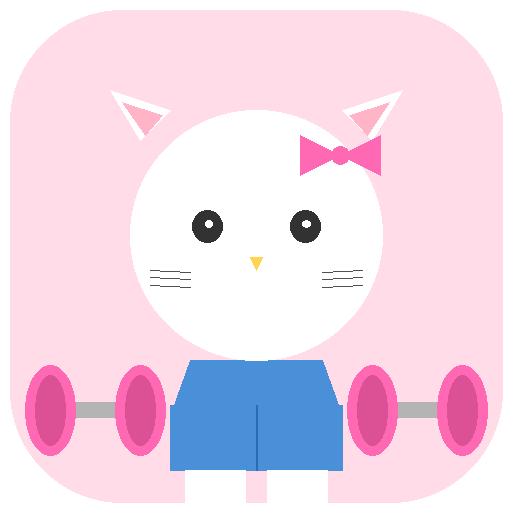
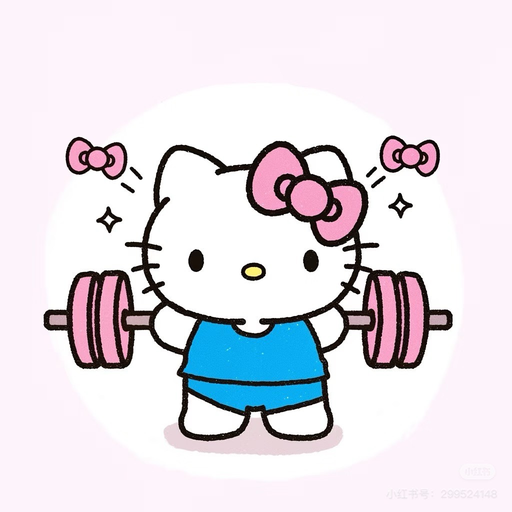
v1.5.1 用原图重新生成所有图标（之前的画坏了）

diff --git a/gen_icons.py b/gen_icons.py
@@ -1,138 +1,68 @@
 """
-生成 Hello Kitty 健身图标 + 多尺寸 PWA 图标
+用原始 Hello Kitty 图片生成所有 PWA 图标尺寸
 """
-from PIL import Image, ImageDraw, ImageFilter
+from PIL import Image
 import os
 
 OUT = '/workspace/couple-diet/icons'
-os.makedirs(OUT, exist_ok=True)
+SRC = os.path.join(OUT, 'hellokitty-original.jpg')
 
-def make_hellokitty(size=1024, transparent_bg=True):
-    """生成 Hello Kitty 健身图标（程序化绘制）"""
-    img = Image.new('RGBA', (size, size), (0,0,0,0) if transparent_bg else (255, 240, 246, 255))
-    d = ImageDraw.Draw(img)
+# 打开原图
+src = Image.open(SRC).convert('RGBA')
+print(f"原图尺寸: {src.size}")
 
-    # 粉色圆形背景（圆角）
-    pad = int(size * 0.02)
-    r = int(size * 0.22)  # 圆角半径
-    bg_color = (255, 220, 232, 255)  # 浅粉
-    # 用圆角矩形作为背景
-    bg = Image.new('RGBA', (size, size), (0,0,0,0))
-    bgd = ImageDraw.Draw(bg)
-    bgd.rounded_rectangle([pad, pad, size-pad, size-pad], radius=r, fill=bg_color)
-    img = Image.alpha_composite(img, bg) if transparent_bg else bg
-    d = ImageDraw.Draw(img)
-
-    s = size / 1024.0  # 缩放因子
-
-    def pt(x):
-        return int(x * s)
-
-    # ===== 身体（蓝色背心+短裤）=====
-    # 蓝色背心
-    d.polygon([
-        (pt(380), pt(720)),   # 左肩下
-        (pt(644), pt(720)),   # 右肩下
-        (pt(680), pt(820)),   # 右腋下
-        (pt(344), pt(820)),   # 左腋下
-    ], fill=(74, 144, 217, 255))
-
-    # 短裤
-    d.rectangle([pt(340), pt(810), pt(684), pt(940)], fill=(74, 144, 217, 255))
-
-    # 短裤中线
-    d.line([(pt(512), pt(810)), (pt(512), pt(940))], fill=(40, 110, 180, 255), width=pt(4))
-
-    # 腿（白色）
-    d.rectangle([pt(370), pt(940), pt(490), pt(1010)], fill=(255, 255, 255, 255))
-    d.rectangle([pt(534), pt(940), pt(654), pt(1010)], fill=(255, 255, 255, 255))
-
-    # ===== 头部（白色猫脸）=====
-    # 脸部轮廓 - 大圆
-    d.ellipse([pt(260), pt(220), pt(764), pt(720)], fill=(255, 255, 255, 255))
-
-    # 左耳
-    d.polygon([(pt(280), pt(280)), (pt(220), pt(180)), (pt(340), pt(220))], fill=(255, 255, 255, 255))
-    # 右耳
-    d.polygon([(pt(744), pt(280)), (pt(804), pt(180)), (pt(684), pt(220))], fill=(255, 255, 255, 255))
-    # 左耳内侧粉
-    d.polygon([(pt(290), pt(270)), (pt(245), pt(205)), (pt(325), pt(230))], fill=(255, 180, 200, 255))
-    # 右耳内侧粉
-    d.polygon([(pt(734), pt(270)), (pt(779), pt(205)), (pt(699), pt(230))], fill=(255, 180, 200, 255))
-
-    # ===== 眼睛（黑色圆点）=====
-    d.ellipse([pt(385), pt(420), pt(445), pt(485)], fill=(50, 50, 50, 255))
-    d.ellipse([pt(580), pt(420), pt(640), pt(485)], fill=(50, 50, 50, 255))
-    # 眼睛高光
-    d.ellipse([pt(410), pt(440), pt(425), pt(455)], fill=(255, 255, 255, 255))
-    d.ellipse([pt(605), pt(440), pt(620), pt(455)], fill=(255, 255, 255, 255))
-
-    # 鼻子（黄色小三角）
-    d.polygon([(pt(500), pt(515)), (pt(525), pt(515)), (pt(512), pt(540))], fill=(255, 213, 79, 255))
-
-    # 胡须（左右各3根）
-    for y_off in [pt(540), pt(555), pt(570)]:
-        d.line([(pt(300), y_off), (pt(380), y_off+pt(5))], fill=(80, 80, 80, 255), width=pt(3))
-        d.line([(pt(724), y_off), (pt(644), y_off+pt(5))], fill=(80, 80, 80, 255), width=pt(3))
-
-    # ===== 蝴蝶结（粉色）=====
-    # 蝴蝶结中心
-    cx, cy = pt(680), pt(310)
-    # 左蝴蝶结
-    d.polygon([(cx, cy), (cx-pt(80), cy-pt(40)), (cx-pt(80), cy+pt(40))], fill=(255, 105, 180, 255))
-    # 右蝴蝶结
-    d.polygon([(cx, cy), (cx+pt(80), cy-pt(40)), (cx+pt(80), cy+pt(40))], fill=(255, 105, 180, 255))
-    # 中心结
-    d.ellipse([cx-pt(18), cy-pt(18), cx+pt(18), cy+pt(18)], fill=(255, 105, 180, 255))
-
-    # ===== 哑铃（左右各一个）=====
-    def draw_dumbbell(left_x, right_x, y):
-        # 杠
-        d.rectangle([pt(left_x), pt(y-15), pt(right_x), pt(y+15)], fill=(180, 180, 180, 255))
-        # 左大圆盘
-        d.ellipse([pt(left_x-50), pt(y-90), pt(left_x+50), pt(y+90)], fill=(255, 105, 180, 255))
-        d.ellipse([pt(left_x-30), pt(y-70), pt(left_x+30), pt(y+70)], fill=(220, 80, 150, 255))
-        # 右大圆盘
-        d.ellipse([pt(right_x-50), pt(y-90), pt(right_x+50), pt(y+90)], fill=(255, 105, 180, 255))
-        d.ellipse([pt(right_x-30), pt(y-70), pt(right_x+30), pt(y+70)], fill=(220, 80, 150, 255))
-
-    draw_dumbbell(100, 280, 820)
-    draw_dumbbell(744, 924, 820)
-
+def resize_icon(size, name=None, add_bg=True):
+    """生成指定尺寸图标，居中裁剪+缩放"""
+    if name is None:
+        name = f'icon-{size}.png'
+    # 居中正方形裁剪
+    w, h = src.size
+    side = min(w, h)
+    left = (w - side) // 2
+    top = (h - side) // 2
+    cropped = src.crop((left, top, left + side, top + side))
+    # 缩放
+    img = cropped.resize((size, size), Image.LANCZOS)
+    img.save(os.path.join(OUT, name))
     return img
 
-# 生成主图标
-master = make_hellokitty(1024)
-master.save(os.path.join(OUT, 'icon-master.png'))
-
-# 生成 PWA 各种尺寸
+# PWA 图标
 sizes = [16, 32, 48, 72, 96, 120, 144, 152, 167, 180, 192, 256, 512]
 for sz in sizes:
-    img = make_hellokitty(sz)
-    img.save(os.path.join(OUT, f'icon-{sz}.png'))
+    resize_icon(sz)
 
-# 苹果特殊尺寸
-apple_sizes = {57: 'apple-touch-icon-57', 60: 'apple-touch-icon-60', 72: 'apple-touch-icon-72',
-               76: 'apple-touch-icon-76', 114: 'apple-touch-icon-114', 120: 'apple-touch-icon-120',
-               144: 'apple-touch-icon-144', 152: 'apple-touch-icon-152', 167: 'apple-touch-icon-167',
-               180: 'apple-touch-icon-180'}
+# Apple Touch Icons
+apple_sizes = {
+    57: 'apple-touch-icon-57',
+    60: 'apple-touch-icon-60',
+    72: 'apple-touch-icon-72',
+    76: 'apple-touch-icon-76',
+    114: 'apple-touch-icon-114',
+    120: 'apple-touch-icon-120',
+    144: 'apple-touch-icon-144',
+    152: 'apple-touch-icon-152',
+    167: 'apple-touch-icon-167',
+    180: 'apple-touch-icon-180',
+}
 for sz, name in apple_sizes.items():
-    img = make_hellokitty(sz)
-    img.save(os.path.join(OUT, f'{name}.png'))
-
-# 浏览器 favicon
-fav32 = make_hellokitty(32)
-fav32.save(os.path.join(OUT, 'favicon-32.png'))
-fav16 = make_hellokitty(16)
-fav16.save(os.path.join(OUT, 'favicon-16.png'))
+    resize_icon(sz, f'{name}.png')
 
 # 主 apple touch icon
-apple = make_hellokitty(180)
-apple.save(os.path.join(OUT, 'apple-touch-icon.png'))
+resize_icon(180, 'apple-touch-icon.png')
 
-print("✅ 生成所有图标")
-print(f"📁 位置: {OUT}")
-print(f"📦 文件数: {len(os.listdir(OUT))}")
+# Favicon
+resize_icon(16, 'favicon-16.png')
+resize_icon(32, 'favicon-32.png')
+
+# 主图标
+resize_icon(1024, 'icon-master.png')
+
+# 侧边栏用的图标（76px）
+resize_icon(76, 'apple-touch-icon-76.png')
+
+print("✅ 全部用原图重新生成")
+print(f"📁 {OUT}")
 for f in sorted(os.listdir(OUT)):
-    sz = os.path.getsize(os.path.join(OUT, f))
-    print(f"  - {f}  ({sz} bytes)")
+    if f.endswith('.png'):
+        sz = os.path.getsize(os.path.join(OUT, f))
+        print(f"  {f}  ({sz} bytes)")
